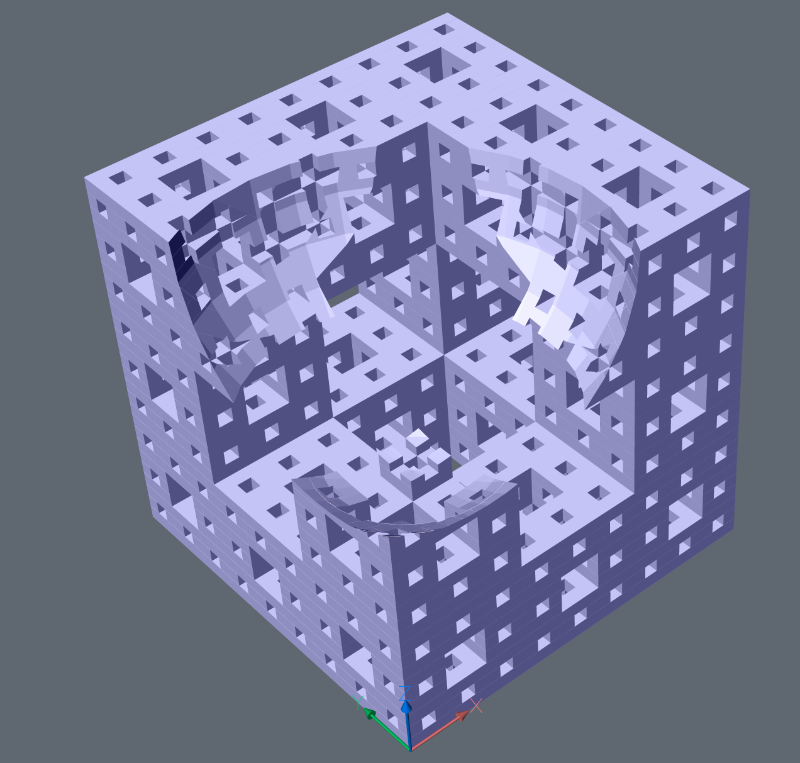
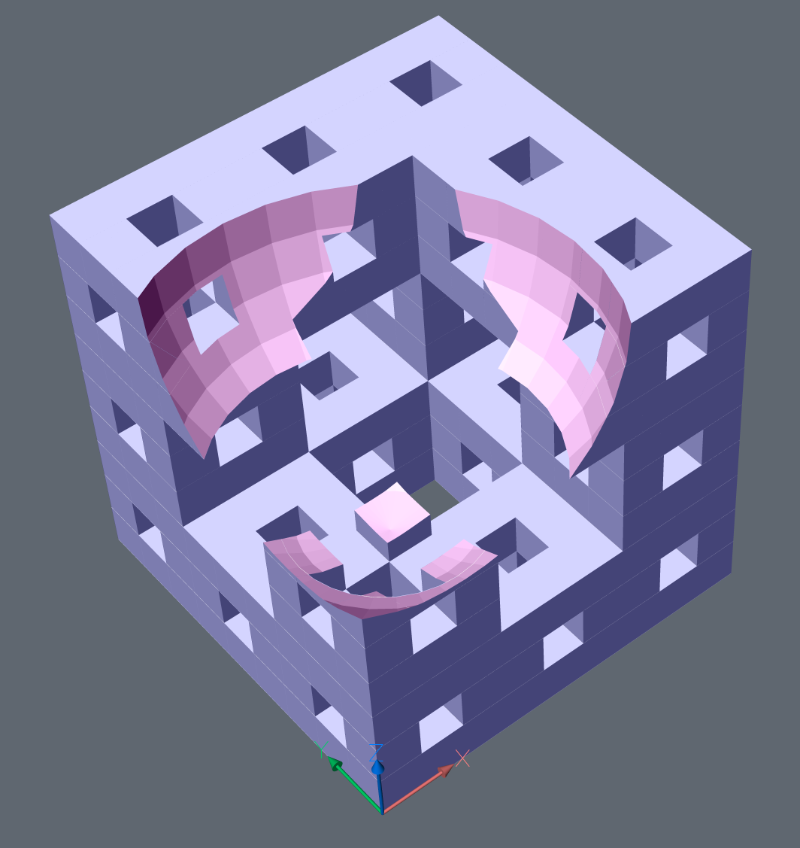
add mesh ids to CSG objects to separate result meshes

diff --git a/src/ezdxf/addons/pycsg.py b/src/ezdxf/addons/pycsg.py
@@ -84,6 +84,7 @@ class Plane:
         polygon_type = 0
         vertex_types = []
         vertices = polygon.vertices
+        meshid = polygon.meshid  # mesh ID of the associated mesh
 
         # Classify each point as well as the entire polygon into one of four classes:
         # COPLANAR, FRONT, BACK, SPANNING = FRONT + BACK
@@ -128,26 +129,27 @@ class Plane:
                     front_vertices.append(plane_intersection_point)
                     back_vertices.append(plane_intersection_point)
             if len(front_vertices) >= 3:
-                front.append(Polygon(front_vertices))
+                front.append(Polygon(front_vertices, meshid=meshid))
             if len(back_vertices) >= 3:
-                back.append(Polygon(back_vertices))
+                back.append(Polygon(back_vertices, meshid=meshid))
 
 
 class Polygon:
     """
     Represents a convex polygon. The vertices used to initialize a polygon must
-    be coplanar and form a convex loop. They do not have to be `Vertex`
-    instances but they must behave similarly (duck typing can be used for
-    customization).
+    be coplanar and form a convex loop, the `mesh` argument associates a polygon
+    to a mesh.
 
     """
 
-    def __init__(self, vertices: List[Vector]):
+    def __init__(self, vertices: List[Vector], meshid: int = 0):
         self.vertices = vertices
         self.plane = Plane.from_points(vertices[0], vertices[1], vertices[2])
+        # number of mesh, this polygon is associated to
+        self.meshid = meshid
 
     def clone(self) -> 'Polygon':
-        return Polygon(list(self.vertices))
+        return Polygon(list(self.vertices), meshid=self.meshid)
 
     def flip(self) -> None:
         self.vertices.reverse()
@@ -155,7 +157,7 @@ class Polygon:
 
     def __repr__(self) -> str:
         v = ', '.join(repr(v) for v in self.vertices)
-        return f'Polygon([{v}])'
+        return f'Polygon([{v}], mesh={self.meshid})'
 
 
 class BSPNode:
@@ -275,14 +277,17 @@ class CSG:
     New 3D solids are created from :class:`~ezdxf.render.MeshBuilder` objects
     and results can be exported as :class:`~ezdxf.render.MeshTransformer` objects
     to `ezdxf` by method :meth:`mesh`.
-    
-    """
 
-    def __init__(self, mesh: MeshBuilder = None):
+    Args:
+        mesh: :class:`ezdxf.render.MeshBuilder` or inherited object
+        meshid: individual mesh ID to separate result meshes, ``0`` is default
+
+    """
+    def __init__(self, mesh: MeshBuilder = None, meshid: int = 0):
         if mesh is None:
             self.polygons = []  # type: List[Polygon]
         else:
-            self.polygons = [Polygon(face) for face in mesh.faces_as_vertices()]
+            self.polygons = [Polygon(face, meshid) for face in mesh.faces_as_vertices()]
 
     @classmethod
     def from_polygons(cls, polygons: List[Polygon]) -> 'CSG':
@@ -290,11 +295,18 @@ class CSG:
         csg.polygons = polygons
         return csg
 
-    def mesh(self) -> MeshTransformer:
-        """ Returns a :class:`ezdxf.render.MeshTransformer` object. """
+    def mesh(self, meshid: int = 0) -> MeshTransformer:
+        """
+        Returns a :class:`ezdxf.render.MeshTransformer` object.
+
+        Args:
+             meshid: individual mesh ID, ``0`` is default
+
+        """
         mesh = MeshVertexMerger()
         for face in self.polygons:
-            mesh.add_face(face.vertices)
+            if meshid == face.meshid:
+                mesh.add_face(face.vertices)
         return MeshTransformer.from_builder(mesh)
 
     def clone(self) -> 'CSG':

diff --git a/examples/addons/pycsg_sphere_vs_menger_sponge.py b/examples/addons/pycsg_sphere_vs_menger_sponge.py
@@ -11,18 +11,21 @@ from ezdxf.addons.pycsg import CSG
 DIR = Path('~/Desktop/Outbox').expanduser()
 
 doc = ezdxf.new()
-doc.layers.new('csg', dxfattribs={'color': 1})
-doc.layers.new('normals', dxfattribs={'color': 6})
+doc.layers.new('sponge', dxfattribs={'color': 5})
+doc.layers.new('sphere', dxfattribs={'color': 6})
 
 doc.set_modelspace_vport(6, center=(5, 0))
 msp = doc.modelspace()
 
-sponge1 = MengerSponge(level=3).mesh()
+sponge1 = MengerSponge(level=2).mesh()
 sphere1 = sphere(count=32, stacks=16, radius=.5, quads=True).translate(.25, .25, 1)
 
 t0 = perf_counter()
-subtract = (CSG(sponge1) - CSG(sphere1)).mesh()
+subtract = (CSG(sponge1, meshid=1) - CSG(sphere1, meshid=2))
 t1 = perf_counter()
-subtract.render(msp, dxfattribs={'layer': 'csg', 'color': 5})
+# get mesh result by id
+subtract.mesh(1).render(msp, dxfattribs={'layer': 'sponge'})
+subtract.mesh(2).render(msp, dxfattribs={'layer': 'sphere'})
+
 print(f'runtime: {t1-t0:.3f}s')
 doc.saveas(DIR / 'csg_sphere_vs_menger_sponge.dxf')

diff --git a/docs/source/addons/pycsg.rst b/docs/source/addons/pycsg.rst
@@ -113,14 +113,19 @@ Required runtime on an old Xeon E5-1620 Workstation @ 3.60GHz, with default recu
     from ezdxf.addons.pycsg import CSG
 
     doc = ezdxf.new()
+    doc.layers.new('sponge', dxfattribs={'color': 5})
+    doc.layers.new('sphere', dxfattribs={'color': 6})
+
     doc.set_modelspace_vport(6, center=(5, 0))
     msp = doc.modelspace()
 
     sponge1 = MengerSponge(level=3).mesh()
     sphere1 = sphere(count=32, stacks=16, radius=.5, quads=True).translate(.25, .25, 1)
 
-    subtract = (CSG(sponge1) - CSG(sphere1)).mesh()
-    subtract.render(msp, dxfattribs={'color': 5})
+    subtract = (CSG(sponge1, meshid=1) - CSG(sphere1, meshid=2))
+    # get mesh result by id
+    subtract.mesh(1).render(msp, dxfattribs={'layer': 'sponge'})
+    subtract.mesh(2).render(msp, dxfattribs={'layer': 'sphere'})
 
 .. image:: gfx/menger_sponge_vs_sphere_level_3.png
 
